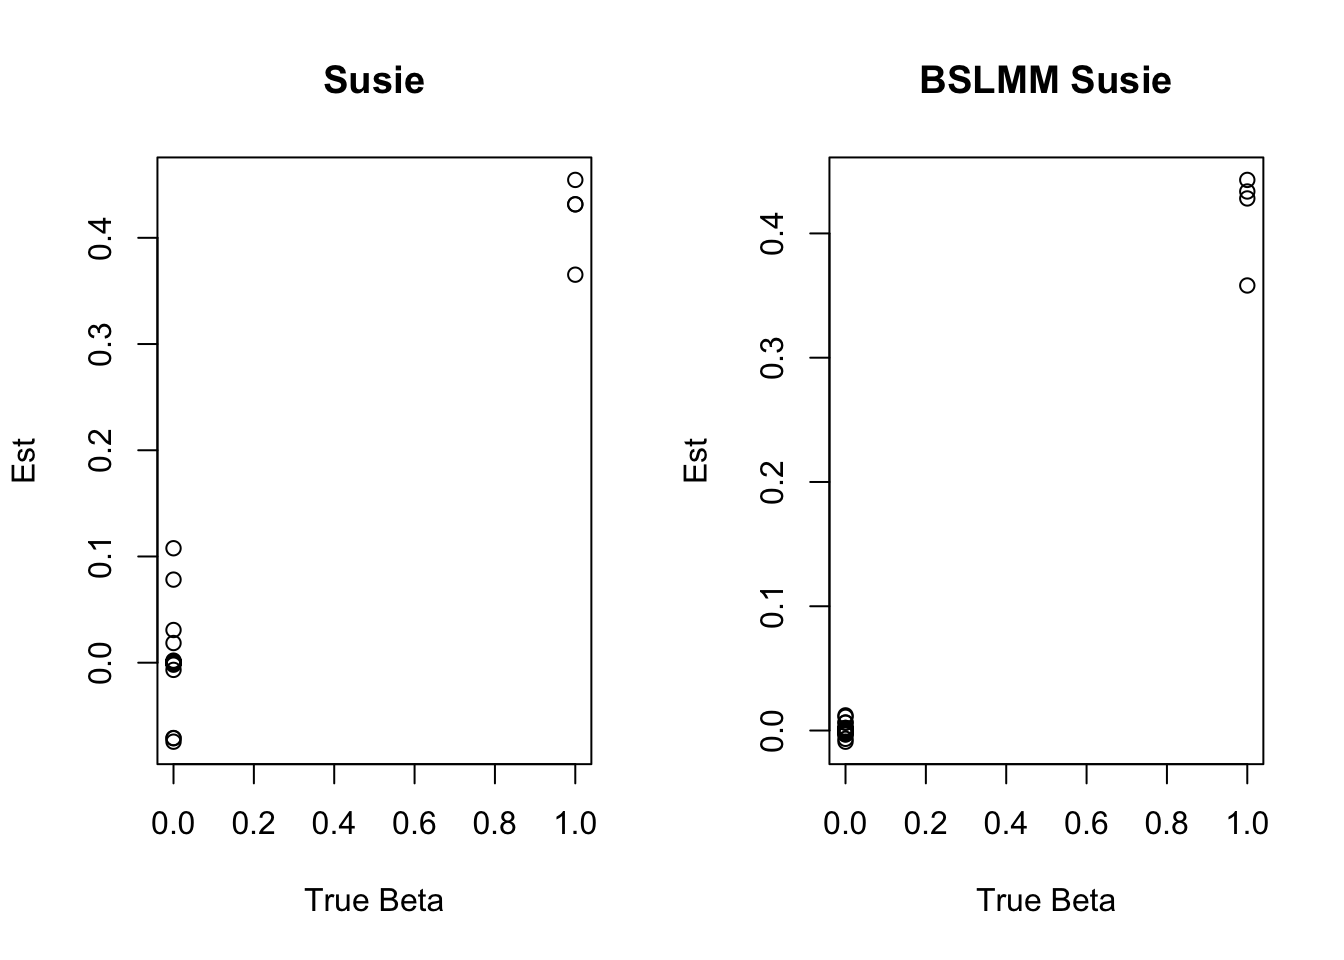
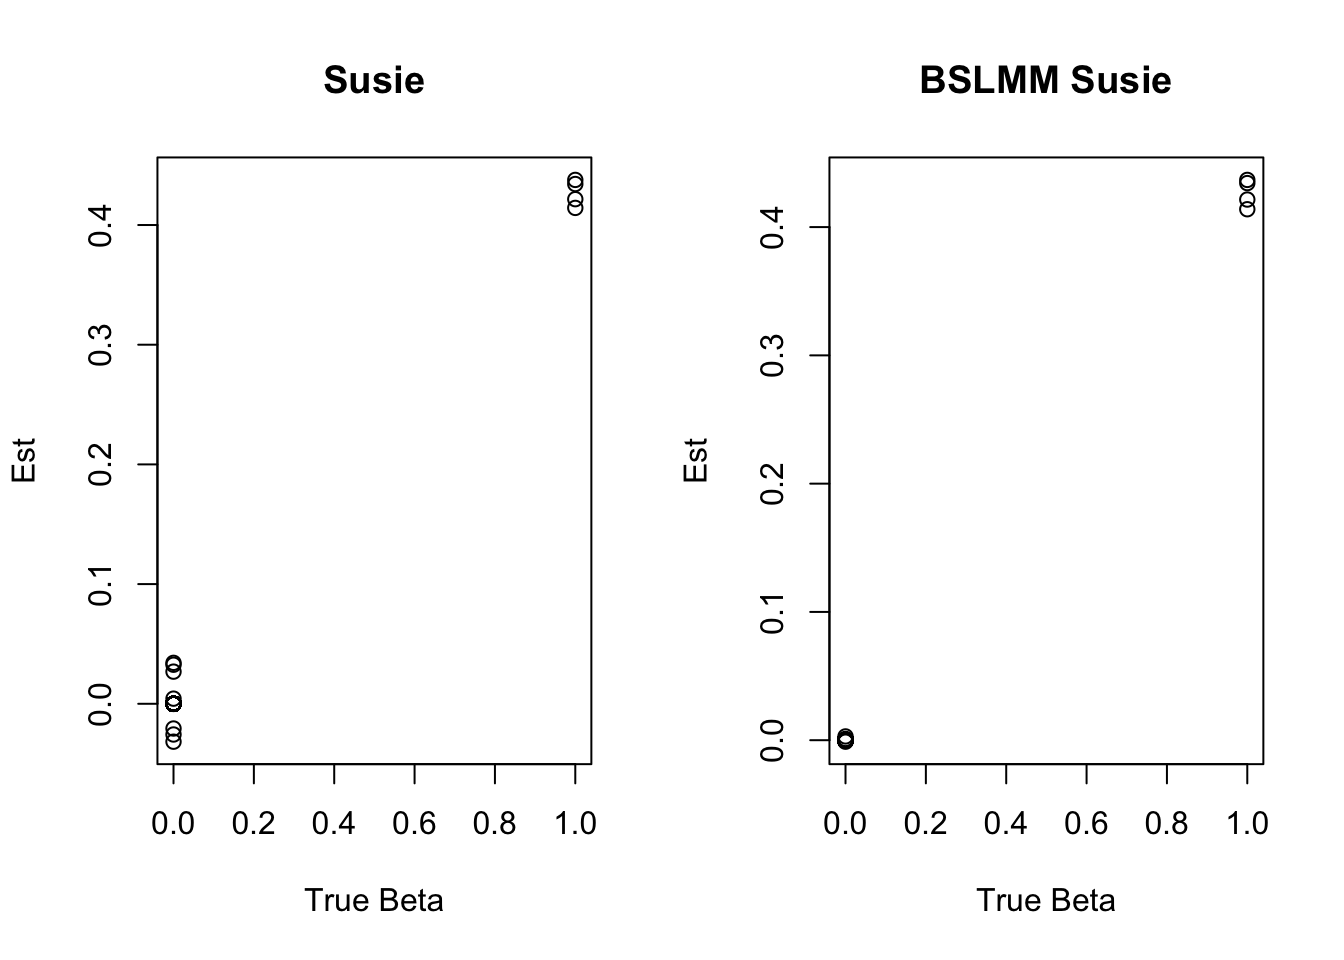
Build site.

diff --git a/docs/BSLMM_SuSie_Workflow.html b/docs/BSLMM_SuSie_Workflow.html
@@ -503,16 +503,16 @@ This reproducible <a href="http://rmarkdown.rstudio.com">R Markdown</a> analysis
 <div class="panel panel-default">
 <div class="panel-heading">
 <p class="panel-title">
-<a data-toggle="collapse" data-parent="#workflowr-checks" href="#strongRepositoryversionstrongahrefhttpsgithubcomborangaoBSLMMSuSieProjecttreedb7c024246b71d07ccc7c822288ac22d0f861121targetblankdb7c024a"> <span class="glyphicon glyphicon-ok text-success" aria-hidden="true"></span> <strong>Repository version:</strong> <a href="https://github.com/borangao/BSLMM_SuSie_Project/tree/db7c024246b71d07ccc7c822288ac22d0f861121" target="_blank">db7c024</a> </a>
+<a data-toggle="collapse" data-parent="#workflowr-checks" href="#strongRepositoryversionstrongahrefhttpsgithubcomborangaoBSLMMSuSieProjecttree3927d3cb174788750c10bf8ed3f27bb7c1c72345targetblank3927d3ca"> <span class="glyphicon glyphicon-ok text-success" aria-hidden="true"></span> <strong>Repository version:</strong> <a href="https://github.com/borangao/BSLMM_SuSie_Project/tree/3927d3cb174788750c10bf8ed3f27bb7c1c72345" target="_blank">3927d3c</a> </a>
 </p>
 </div>
[2 lines of base64/hex data omitted]
 <div class="panel-body">
 <p>
 Great! You are using Git for version control. Tracking code development and connecting the code version to the results is critical for reproducibility.
 </p>
 <p>
-The results in this page were generated with repository version <a href="https://github.com/borangao/BSLMM_SuSie_Project/tree/db7c024246b71d07ccc7c822288ac22d0f861121" target="_blank">db7c024</a>. See the <em>Past versions</em> tab to see a history of the changes made to the R Markdown and HTML files.
+The results in this page were generated with repository version <a href="https://github.com/borangao/BSLMM_SuSie_Project/tree/3927d3cb174788750c10bf8ed3f27bb7c1c72345" target="_blank">3927d3c</a>. See the <em>Past versions</em> tab to see a history of the changes made to the R Markdown and HTML files.
 </p>
 <p>
 Note that you need to be careful to ensure that all relevant files for the analysis have been committed to Git prior to generating the results (you can use <code>wflow_publish</code> or <code>wflow_git_commit</code>). workflowr only checks the R Markdown file, but you know if there are other scripts or data files that it depends on. Below is the status of the Git repository when the results were generated:
@@ -561,6 +561,40 @@ Message
 </tr>
 </thead>
 <tbody>
+<tr>
+<td>
+Rmd
+</td>
+<td>
+<a href="https://github.com/borangao/BSLMM_SuSie_Project/blob/3927d3cb174788750c10bf8ed3f27bb7c1c72345/analysis/BSLMM_SuSie_Workflow.Rmd" target="_blank">3927d3c</a>
+</td>
+<td>
+Boran Gao
+</td>
+<td>
+2021-01-21
+</td>
+<td>
+Update Analysis
+</td>
+</tr>
+<tr>
+<td>
+html
+</td>
+<td>
+<a href="https://rawcdn.githack.com/borangao/BSLMM_SuSie_Project/f1b15c685a587b943e045dd61efbe1ec8014da32/docs/BSLMM_SuSie_Workflow.html" target="_blank">f1b15c6</a>
+</td>
+<td>
+Boran Gao
+</td>
+<td>
+2021-01-21
+</td>
+<td>
+Build site.
+</td>
+</tr>
 <tr>
 <td>
 html
@@ -727,14 +761,14 @@ when loading &#39;dplyr&#39;</code></pre>
 <pre class="r"><code>##install_github(&quot;borangao/BSLMMSusie&quot;)
 library(BSLMMSusie)
 set.seed(1)
-n = 1000
-p = 100
+n = 1e5; 
+p = 1000; 
+maf &lt;- 0.05 + 0.45*runif(p)
+X   &lt;- (runif(n*p) &lt; maf) + (runif(n*p) &lt; maf)
+X   &lt;- matrix(as.double(X),n,p,byrow = TRUE)
+X = scale(X)
 beta = rep(0,p)
 beta[1:4] = 1
-#X = matrix(rnorm(n*p),nrow = n,ncol = p)
-#X = scale(X)
-X = matrix(sample(c(0,1,2),n*p,replace = T), nrow = n, ncol = p)
-X = scale(X)
 z = rnorm(p,0,sqrt(0.5/p))
 Y = drop(X %*% beta +X%*%z+rnorm(n))
 true_sigma_k = var(X%*%z)/var(Y)
@@ -749,9 +783,10 @@ start.time&lt;-Sys.time()
 res2 = susie_BSLMM(X,Y,L=10)
 BSLMM_susie_time&lt;-Sys.time()-start.time
 print(c(susie_time,BSLMM_susie_time))</code></pre>
-<pre><code>Time differences in secs
-[1] 0.1571391 0.2916288</code></pre>
-<pre class="r"><code>par(mfrow=c(1,2))
+<pre><code>Time differences in mins
+[1]  1.344927 22.819259</code></pre>
+<pre class="r"><code>######Estimated Beta
+par(mfrow=c(1,2))
 plot(beta,coef(res1)[-1],main=&quot;Susie&quot;,xlab = &quot;True Beta&quot;,ylab = &quot;Est&quot;)
 plot(beta,res2$beta,main=&quot;BSLMM Susie&quot;,xlab = &quot;True Beta&quot;,ylab = &quot;Est&quot;)</code></pre>
 <p><img src="figure/BSLMM_SuSie_Workflow.Rmd/unnamed-chunk-1-1.png" width="672" style="display: block; margin: auto;" /></p>
@@ -792,34 +827,35 @@ Boran Gao
 </table>
 </div>
 </div>
-<pre class="r"><code>res1$sets</code></pre>
+<pre class="r"><code>#### Identified Sets of causaul snps
+res1$sets</code></pre>
 <pre><code>$cs
 $cs$L1
 [1] 4
 
 $cs$L2
-[1] 1
-
-$cs$L3
-[1] 2
-
-$cs$L4
 [1] 3
 
+$cs$L3
+[1] 1
+
+$cs$L4
+[1] 2
+
 $cs$L5
-[1] 34
+[1] 915
 
 $cs$L6
-[1] 87
+[1] 268
 
 $cs$L7
-[1] 7
+[1] 518
 
 $cs$L8
-[1] 72
+[1] 425
 
 $cs$L9
-[1] 73
+[1] 609
 
 
 $purity
@@ -838,8 +874,8 @@ $cs_index
 [1] 1 2 3 4 5 6 7 8 9
 
 $coverage
-[1] 1.0000000 1.0000000 1.0000000 1.0000000 1.0000000 0.9954721 0.9756854
-[8] 0.9771051 0.9902188
+[1] 1.0000000 1.0000000 1.0000000 1.0000000 1.0000000 1.0000000 1.0000000
+[8] 1.0000000 0.9999806
 
 $requested_coverage
 [1] 0.95</code></pre>
@@ -849,13 +885,13 @@ $cs$L1
 [1] 4
 
 $cs$L2
-[1] 1
+[1] 3
 
 $cs$L3
-[1] 2
+[1] 1
 
 $cs$L4
-[1] 3
+[1] 2
 
 
 $purity
@@ -873,7 +909,87 @@ $coverage
 
 $requested_coverage
 [1] 0.95</code></pre>
-<pre class="r"><code>####BSLMM Susie</code></pre>
+<pre class="r"><code>####KL Divergence of SuSie and BSLMM Susie
+res1$KL</code></pre>
+<pre><code> [1] 12.500594 12.492730 12.463134 12.445681  9.953637  9.906911  9.877083
+ [8]  9.713053  9.667843  9.151747</code></pre>
+<pre class="r"><code>res2$KL</code></pre>
+<pre><code> [1] 183.341199 176.237073 176.881114 172.866090   1.682649   1.675755
+ [7]   1.676023   1.682562   1.689448   1.690685</code></pre>
+<pre class="r"><code>###Our extension has smaller KL when there is no signal, while Susie has large KL when there is no signal
+
+####ELBO of two methods
+res1$elbo</code></pre>
+<pre><code>[1] -105303.66  -75742.64  -75740.82  -75740.32  -75740.32</code></pre>
+<pre class="r"><code>res2$ELBO</code></pre>
+<pre><code> [1] -76308.24 -73518.63 -70042.83 -66862.28 -64336.50 -62482.51 -61194.67
+ [8] -60335.01 -59792.82 -59463.76 -59284.66 -59205.57 -59183.25 -59179.38
+[15] -59178.78 -59178.72 -59178.76 -59178.81 -59178.88 -59178.95 -59179.03
+[22] -59179.13 -59179.25 -59179.38 -59179.51 -59179.62 -59179.70 -59179.73
+[29] -59179.73 -59179.70 -59179.68 -59179.66 -59179.64 -59179.63 -59179.62
+[36] -59179.62 -59179.62</code></pre>
+<pre class="r"><code>####Sigma2, sigma_b and sigma_k estimate checking
+
+print(paste0(&quot;True sigma_k is &quot;,round(true_sigma_k,4), &quot; and estimated sigma_k is &quot;,round(res2$sigma_k*res2$sigma2,4)))</code></pre>
+<pre><code>[1] &quot;True sigma_k is 0.0894 and estimated sigma_k is 0.0887&quot;</code></pre>
+<pre class="r"><code>print(paste0(&quot;True sigma_2 is &quot;,round(true_sigma,4), &quot; and SuSie estimated sigma_2 is &quot;,round(res1$sigma2,2),&quot; and BSLMM SuSie estimated sigma_2 is &quot;,round(res2$sigma2,2)))</code></pre>
+<pre><code>[1] &quot;True sigma_2 is 0.1818 and SuSie estimated sigma_2 is 0.27 and BSLMM SuSie estimated sigma_2 is 0.18&quot;</code></pre>
+<pre class="r"><code>print(paste0(&quot;Susie Sigma_b estimates are &quot;,res1$V))</code></pre>
+<pre><code> [1] &quot;Susie Sigma_b estimates are 0.191573108252108&quot;   
+ [2] &quot;Susie Sigma_b estimates are 0.188583370190266&quot;   
+ [3] &quot;Susie Sigma_b estimates are 0.177744859400418&quot;   
+ [4] &quot;Susie Sigma_b estimates are 0.171647281325513&quot;   
+ [5] &quot;Susie Sigma_b estimates are 0.00117246256045328&quot; 
+ [6] &quot;Susie Sigma_b estimates are 0.00106761984165079&quot; 
+ [7] &quot;Susie Sigma_b estimates are 0.00100563712136296&quot; 
+ [8] &quot;Susie Sigma_b estimates are 0.000723636953477048&quot;
+ [9] &quot;Susie Sigma_b estimates are 0.000661156717717912&quot;
+[10] &quot;Susie Sigma_b estimates are 0.000632495585922018&quot;</code></pre>
+<pre class="r"><code>print(paste0(&quot;BSLMM Susie Sigma_b estimates are &quot;,res2$sigma_b))</code></pre>
+<pre><code> [1] &quot;BSLMM Susie Sigma_b estimates are 0.190885614964917&quot;   
+ [2] &quot;BSLMM Susie Sigma_b estimates are 0.188731785869072&quot;   
+ [3] &quot;BSLMM Susie Sigma_b estimates are 0.177746232472951&quot;   
+ [4] &quot;BSLMM Susie Sigma_b estimates are 0.171436275199714&quot;   
+ [5] &quot;BSLMM Susie Sigma_b estimates are 0.000104488788371706&quot;
+ [6] &quot;BSLMM Susie Sigma_b estimates are 0.000104057338163479&quot;
+ [7] &quot;BSLMM Susie Sigma_b estimates are 0.000104074115287415&quot;
+ [8] &quot;BSLMM Susie Sigma_b estimates are 0.000104483389051389&quot;
+ [9] &quot;BSLMM Susie Sigma_b estimates are 0.000104914333392795&quot;
+[10] &quot;BSLMM Susie Sigma_b estimates are 0.000104991786381773&quot;</code></pre>
+<pre class="r"><code>####Check when there is no genetic relatedness impact
+
+
+####Check robustness of sigma_k on estimation
+sigma_k_estimates&lt;-c()
+for(sigma_k in c(seq(0.1,0.9,0.1))){
+n = 1000; 
+p = 100; 
+maf &lt;- 0.05 + 0.45*runif(p)
+X   &lt;- (runif(n*p) &lt; maf) + (runif(n*p) &lt; maf)
+X   &lt;- matrix(as.double(X),n,p,byrow = TRUE)
+X = scale(X)
+beta = rep(0,p)
+beta[1:4] = 1
+z = rnorm(p,0,sqrt(sigma_k/p))
+Y = drop(X %*% beta +X%*%z+rnorm(n))
+true_sigma_k = var(X%*%z)/var(Y)
+true_sigma = 1/var(Y)
+Y= scale(Y)
+res_bslmm_susie = susie_BSLMM(X,Y,L=10)
+sigma_k_estimates&lt;-rbind(sigma_k_estimates,c(true_sigma_k,res_bslmm_susie$sigma2*res_bslmm_susie$sigma_k))
+}
+sigma_k_estimates</code></pre>
+<pre><code>            [,1]       [,2]
+ [1,] 0.01582632 0.02078323
+ [2,] 0.04799213 0.05426972
+ [3,] 0.07074834 0.06685729
+ [4,] 0.05629248 0.06868011
+ [5,] 0.09117570 0.09653516
+ [6,] 0.09493218 0.09118018
+ [7,] 0.12537389 0.13272983
+ [8,] 0.14494566 0.14914747
+ [9,] 0.13040394 0.11892025</code></pre>
+<pre class="r"><code>###Method is robust to sigma_k</code></pre>
 <br>
 <p>
 <button type="button" class="btn btn-default btn-workflowr btn-workflowr-sessioninfo" data-toggle="collapse" data-target="#workflowr-sessioninfo" style="display: block;">
